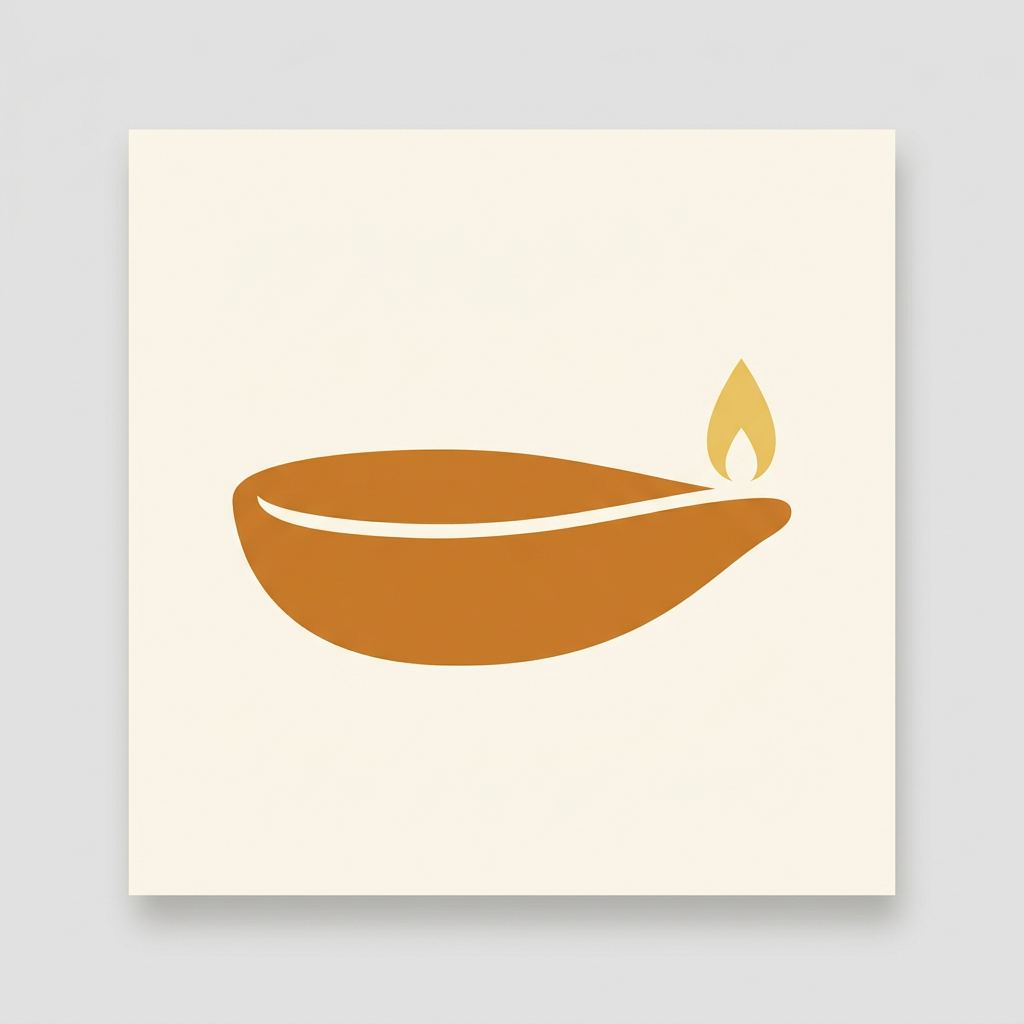
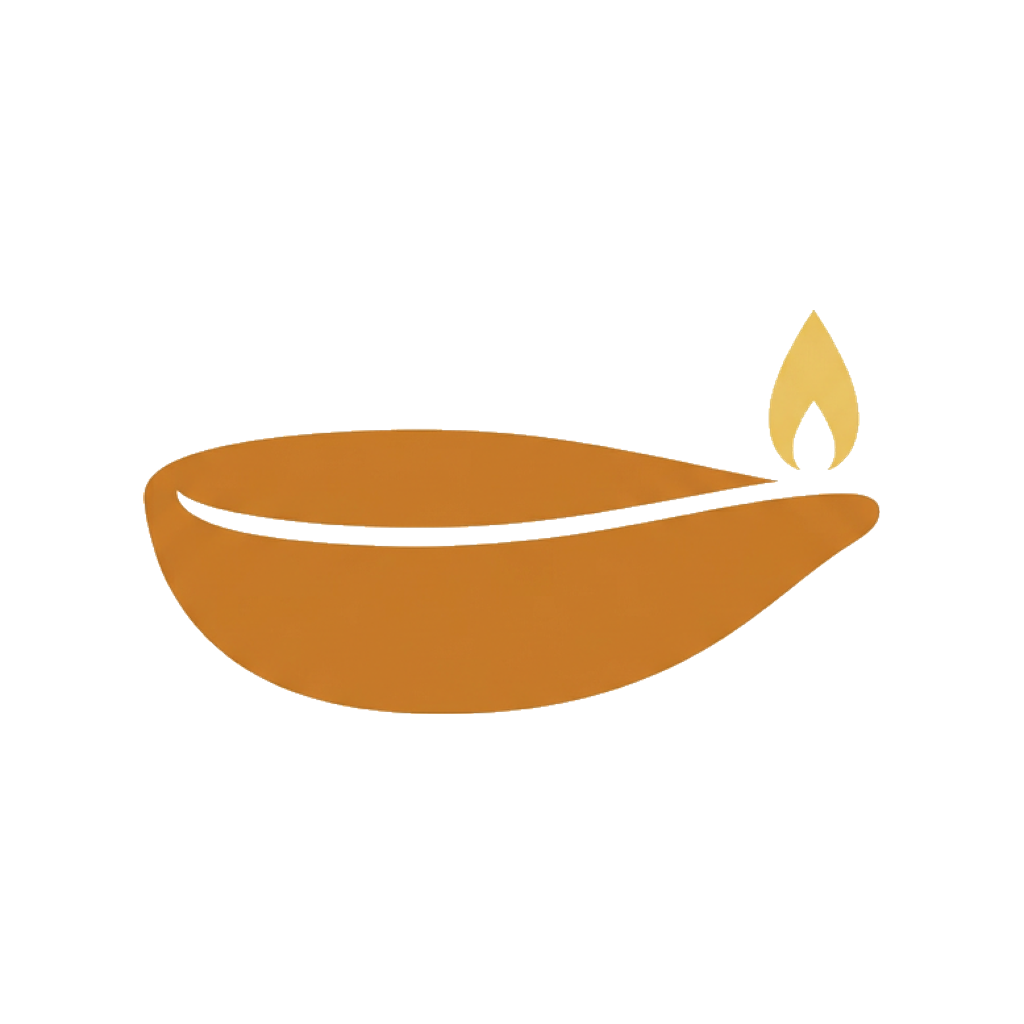
Home hero: five-motif rotation, cropped lamp, art rendering on device

diff --git a/tests/home-hero-coherence.test.ts b/tests/home-hero-coherence.test.ts
@@ -15,6 +15,7 @@ import {
 } from "../components/home-v2/hero-share";
 import { contrastRatio } from "../lib/devotions-visual";
 import {
+  HERO_ART_ASPECT,
   HERO_ART_RATIO,
   HERO_ART_RATIO_NARROW,
   HERO_TEXT_COL_MIN_RATIO,
@@ -23,6 +24,13 @@ import {
   heroArtRatioForWidth,
   heroIllustrationForDay,
 } from "../lib/home-hero-illustration";
+
+/** Intrinsic size straight out of the PNG IHDR chunk — no image deps. */
+function pngSize(path: URL): { width: number; height: number } {
+  const buf = readFileSync(path);
+  assert.equal(buf.subarray(1, 4).toString("ascii"), "PNG", `${path} is not a PNG`);
+  return { width: buf.readUInt32BE(16), height: buf.readUInt32BE(20) };
+}
 
 const originalTimeZone = process.env.TZ;
 
@@ -138,7 +146,7 @@ describe("Home hero verse illustrations", () => {
   it("rotates a fixed verse-card list by day-of-year with distinct tab assets", () => {
     assert.deepEqual(
       HERO_VERSE_ILLUSTRATION_LIST.map((item) => item.label),
-      ["lamp", "candle", "sunburst", "open book", "olive branch", "path"],
+      ["lamp", "candle", "sunburst", "olive branch", "path"],
     );
     const verse = heroIllustrationForDay(248, "verse");
     const signpost = heroIllustrationForDay(248, "signpost");
@@ -148,6 +156,71 @@ describe("Home hero verse illustrations", () => {
     assert.notEqual(signpost.id, reflection.id);
     assert.equal(heroIllustrationForDay(248, "verse").id, verse.id);
     assert.notEqual(heroIllustrationForDay(249, "verse").id, verse.id);
+  });
+
+  // The three tabs use consecutive offsets, so they only stay distinct while the
+  // list holds at least three entries. Dropping the list to two would silently
+  // repeat an asset across tabs; this pins the invariant for a whole year.
+  it("shows three different assets on every tab for every day of the year", () => {
+    assert.ok(
+      HERO_VERSE_ILLUSTRATION_LIST.length >= 3,
+      "consecutive tab offsets need at least three entries",
+    );
+    for (let dayIndex = 0; dayIndex <= 365; dayIndex++) {
+      const ids = new Set(
+        (["verse", "signpost", "reflection"] as const).map(
+          (tab) => heroIllustrationForDay(dayIndex, tab).id,
+        ),
+      );
+      assert.equal(ids.size, 3, `day ${dayIndex} repeats an asset: ${[...ids].join(", ")}`);
+    }
+  });
+
+  it("normalises out-of-range and negative day indexes onto the same rotation", () => {
+    const n = HERO_VERSE_ILLUSTRATION_LIST.length;
+    for (const tab of ["verse", "signpost", "reflection"] as const) {
+      for (let dayIndex = -400; dayIndex <= 400; dayIndex++) {
+        const picked = heroIllustrationForDay(dayIndex, tab);
+        assert.ok(
+          HERO_VERSE_ILLUSTRATION_LIST.some((item) => item.id === picked.id),
+          `day ${dayIndex} (${tab}) fell outside the list`,
+        );
+        assert.equal(
+          picked.id,
+          heroIllustrationForDay(dayIndex + n, tab).id,
+          `day ${dayIndex} (${tab}) is not stable across a full list cycle`,
+        );
+      }
+      // Negative indexes must also keep the three tabs distinct.
+      const ids = new Set(
+        (["verse", "signpost", "reflection"] as const).map(
+          (t) => heroIllustrationForDay(-7, t).id,
+        ),
+      );
+      assert.equal(ids.size, 3);
+    }
+  });
+
+  it("keeps HERO_ART ids in sync with the rotation list", () => {
+    const hero = readFileSync(
+      new URL("../components/home-v2/HeroCard.tsx", import.meta.url),
+      "utf8",
+    );
+    const map = hero.slice(hero.indexOf("const HERO_ART"));
+    const block = map.slice(0, map.indexOf("};") + 2);
+    for (const item of HERO_VERSE_ILLUSTRATION_LIST) {
+      assert.ok(block.includes(`${item.id}:`), `HERO_ART is missing ${item.id}`);
+      assert.ok(block.includes(item.file), `HERO_ART is missing ${item.file}`);
+    }
+    const entries = block.match(/require\(/g) ?? [];
+    assert.equal(
+      entries.length,
+      HERO_VERSE_ILLUSTRATION_LIST.length,
+      "HERO_ART has entries the rotation list does not declare",
+    );
+    // The coral headphones were pulled from the rotation as an off-theme media
+    // motif; the asset stays on disk but must not come back into the hero.
+    assert.doesNotMatch(hero, /rhythm-listen/);
   });
 
   it("keeps verse ink readable on cream/white (WCAG AA)", () => {
@@ -182,7 +255,6 @@ describe("Home hero verse illustrations", () => {
     assert.match(hero, /contentRow/);
     assert.match(hero, /flexDirection:\s*"row"/);
     assert.match(hero, /alignItems:\s*"flex-start"/);
-    assert.match(hero, /aspectRatio:\s*1/);
     assert.match(hero, /resizeMode="contain"/);
     assert.doesNotMatch(hero, /LinearGradient/);
     assert.doesNotMatch(hero, /expo-linear-gradient/);
@@ -192,7 +264,7 @@ describe("Home hero verse illustrations", () => {
   it("keeps actions as a sibling below the art with no absolute bottom art", () => {
     const hero = readFileSync(new URL("../components/home-v2/HeroCard.tsx", import.meta.url), "utf8");
     const contentIdx = hero.indexOf("style={s.contentRow}");
-    const artIdx = hero.indexOf("style={[s.art, { width: artWidth }]}");
+    const artIdx = hero.indexOf("style={[s.art, { width: artWidth, height: artHeight }]}");
     const contentClose = hero.indexOf("</View>", artIdx);
     const actionsIdx = hero.indexOf("style={s.actions}");
     assert.ok(contentIdx > 0, "contentRow missing");
@@ -204,5 +276,45 @@ describe("Home hero verse illustrations", () => {
     assert.doesNotMatch(hero, /right:\s*-?\d+/);
     const afterActions = hero.slice(actionsIdx);
     assert.doesNotMatch(afterActions, /<Image\b/);
+  });
+
+  // Regression: the art column rendered empty on react-native-web because
+  // `width: "100%"` + `aspectRatio: 1` on <Image> left the intrinsic 1024px
+  // height in place (measured <img> box was 91x1024 inside a 91x91 clipped
+  // parent), so `contain` centred the art ~466px below the visible window.
+  it("sizes the hero art in explicit pixels, never percentage + aspectRatio", () => {
+    const hero = readFileSync(
+      new URL("../components/home-v2/HeroCard.tsx", import.meta.url),
+      "utf8",
+    );
+
+    assert.match(hero, /const artWidth = Math\.round\(measuredWidth \* artRatio\)/);
+    assert.match(hero, /const artHeight = artPixelHeight\(artWidth\)/);
+    assert.match(hero, /style=\{\{ width: artWidth, height: artHeight \}\}/);
+    // No style may set aspectRatio, and the old percentage-sized image is gone.
+    assert.doesNotMatch(hero, /aspectRatio:/);
+    assert.doesNotMatch(hero, /artImage/);
+
+    // The art container itself must not clip or percentage-size the art.
+    const artStyle = hero.slice(hero.indexOf("  art: {"));
+    const artBlock = artStyle.slice(0, artStyle.indexOf("},") + 1);
+    assert.ok(artBlock.includes('marginLeft: "auto"'), "art must stay right-aligned");
+    assert.doesNotMatch(artBlock, /overflow/);
+    assert.doesNotMatch(artBlock, /%/);
+  });
+
+  it("keeps every rotation asset square so HERO_ART_ASPECT stays honest", () => {
+    assert.equal(HERO_ART_ASPECT, 1);
+    for (const item of HERO_VERSE_ILLUSTRATION_LIST) {
+      const { width, height } = pngSize(
+        new URL(`../assets/illustrations/${item.file}`, import.meta.url),
+      );
+      assert.ok(width > 0 && height > 0, `${item.file} has no intrinsic size`);
+      assert.equal(
+        height / width,
+        HERO_ART_ASPECT,
+        `${item.file} is ${width}x${height}; HERO_ART_ASPECT assumes 1:1`,
+      );
+    }
   });
 });

diff --git a/components/home-v2/HeroCard.tsx b/components/home-v2/HeroCard.tsx
@@ -13,6 +13,7 @@ import {
 } from "./home-data";
 import { buildHeroShareMessage, type HeroTab } from "./hero-share";
 import {
+  HERO_ART_ASPECT,
   HERO_TEXT_COL_RATIO,
   heroArtRatioForWidth,
   heroIllustrationForDay,
@@ -23,7 +24,6 @@ const HERO_ART: Record<HeroVerseIllustrationId, number> = {
   lamp: require("@/assets/illustrations/plan-prayer.png"),
   candle: require("@/assets/illustrations/rhythm-reflection.png"),
   sunburst: require("@/assets/illustrations/rhythm-morning.png"),
-  "open-book": require("@/assets/illustrations/rhythm-plan.png"),
   olive: require("@/assets/illustrations/plan-health.png"),
   path: require("@/assets/illustrations/plan-youth.png"),
 };
@@ -69,8 +69,20 @@ function showAuthGate() {
   });
 }
 
-function artWidthPercent(ratio: number): `${number}%` {
+function widthPercent(ratio: number): `${number}%` {
   return `${Math.round(ratio * 100)}%`;
+}
+
+/**
+ * react-native-web ignores `aspectRatio` on `Image`, so a percentage width left
+ * the intrinsic 1024px asset height in place and `contain` centred the art far
+ * below the clipped column. Size the art in explicit pixels off the measured
+ * column width and the asset ratio instead. `Image.resolveAssetSource` does not
+ * exist on react-native-web, so the ratio is a constant that
+ * tests/home-hero-coherence.test.ts pins against the real PNG headers.
+ */
+function artPixelHeight(width: number): number {
+  return Math.round(width * HERO_ART_ASPECT);
 }
 
 export default function HeroCard({
@@ -84,7 +96,9 @@ export default function HeroCard({
   const measuredWidth = rowWidth > 0 ? rowWidth : Math.max(windowWidth - 40, 320);
   const art = heroIllustrationForDay(dayIndex, activeTab);
   const artRatio = heroArtRatioForWidth(measuredWidth);
-  const artWidth = artWidthPercent(artRatio);
+  const artSource = HERO_ART[art.id];
+  const artWidth = Math.round(measuredWidth * artRatio);
+  const artHeight = artPixelHeight(artWidth);
 
   const bookName = verse.reference.replace(/\s+\d+.*$/, "");
   assertReflectionReadingAlignment(
@@ -194,16 +208,16 @@ export default function HeroCard({
           if (next > 0 && next !== rowWidth) setRowWidth(next);
         }}
       >
-        <View style={[s.textCol, { width: artWidthPercent(HERO_TEXT_COL_RATIO) }]}>{copy}</View>
+        <View style={[s.textCol, { width: widthPercent(HERO_TEXT_COL_RATIO) }]}>{copy}</View>
         <View
-          style={[s.art, { width: artWidth }]}
+          style={[s.art, { width: artWidth, height: artHeight }]}
           pointerEvents="none"
           accessible={false}
           importantForAccessibility="no"
         >
           <Image
-            source={HERO_ART[art.id]}
-            style={s.artImage}
+            source={artSource}
+            style={{ width: artWidth, height: artHeight }}
             resizeMode="contain"
           />
         </View>
@@ -287,17 +301,14 @@ const s = StyleSheet.create({
     flexShrink: 0,
   },
   art: {
-    aspectRatio: 1,
     marginLeft: "auto",
+    // Inset on the art, not the row: row padding would shrink the percentage
+    // basis and drop the text column under HERO_TEXT_COL_RATIO.
+    marginRight: 20,
     flexGrow: 0,
     flexShrink: 0,
-    overflow: "hidden",
     alignItems: "flex-end",
     justifyContent: "flex-start",
-  },
-  artImage: {
-    width: "100%",
-    aspectRatio: 1,
   },
   eyebrow: { fontFamily: F.interBold, fontSize: 11.5, letterSpacing: 1.6, color: HV2.coralInk },
   verse: { fontFamily: F.loraSemi, fontSize: 22, lineHeight: 32, color: HV2.ink, marginTop: 12 },

diff --git a/lib/home-hero-illustration.ts b/lib/home-hero-illustration.ts
@@ -1,12 +1,16 @@
 /**
  * Daily Home hero illustrations (Verse / Signpost / Reflection).
- * Motifs from the existing 26-asset set — no dove in that set.
+ * Motifs from the existing 26-asset set, each transparent and 1:1.
+ * Five scripture motifs, no repeats and no gold. The sixth slot held
+ * rhythm-listen.png (coral headphones) for a while; a media motif read wrong
+ * beside lamp/candle/sunburst/olive/path, so the list is deliberately five.
+ * Keep it at five or more — TAB_OFFSET below assumes the list can hold three
+ * distinct entries.
  */
 export const HERO_VERSE_ILLUSTRATION_LIST = [
   { id: "lamp", file: "plan-prayer.png", label: "lamp" },
   { id: "candle", file: "rhythm-reflection.png", label: "candle" },
   { id: "sunburst", file: "rhythm-morning.png", label: "sunburst" },
-  { id: "open-book", file: "rhythm-plan.png", label: "open book" },
   { id: "olive", file: "plan-health.png", label: "olive branch" },
   { id: "path", file: "plan-youth.png", label: "path" },
 ] as const;
@@ -16,6 +20,14 @@ export type HeroVerseIllustrationId =
 
 export type HeroIllustrationTab = "verse" | "signpost" | "reflection";
 
+/**
+ * Consecutive offsets, so on any day the three tabs land on three consecutive
+ * entries of the list. With a list of length n >= 3 the residues
+ * (base+0), (base+1), (base+2) mod n are pairwise distinct — their pairwise
+ * differences are 1, 1 and 2, none of which is 0 mod n — so the three tabs can
+ * never collide. At n = 5 that leaves two entries unseen each day and the whole
+ * list cycles every 5 days.
+ */
 const TAB_OFFSET: Record<HeroIllustrationTab, number> = {
   verse: 0,
   signpost: 1,
@@ -31,6 +43,15 @@ export function heroIllustrationForDay(
   const index = (base + TAB_OFFSET[tab]) % n;
   return HERO_VERSE_ILLUSTRATION_LIST[index];
 }
+
+/**
+ * Every rotation asset is a 1024x1024 square. HeroCard multiplies the measured
+ * art column width by this to get an explicit pixel height, because
+ * react-native-web ignores `aspectRatio` on `Image` and falls back to the
+ * intrinsic 1024px height. home-hero-coherence.test.ts pins this against the
+ * PNG headers on disk so a non-square asset fails loudly.
+ */
+export const HERO_ART_ASPECT = 1;
 
 /** Text column stays ~62% of the card so copy never sits on the art. */
 export const HERO_TEXT_COL_RATIO = 0.62;
